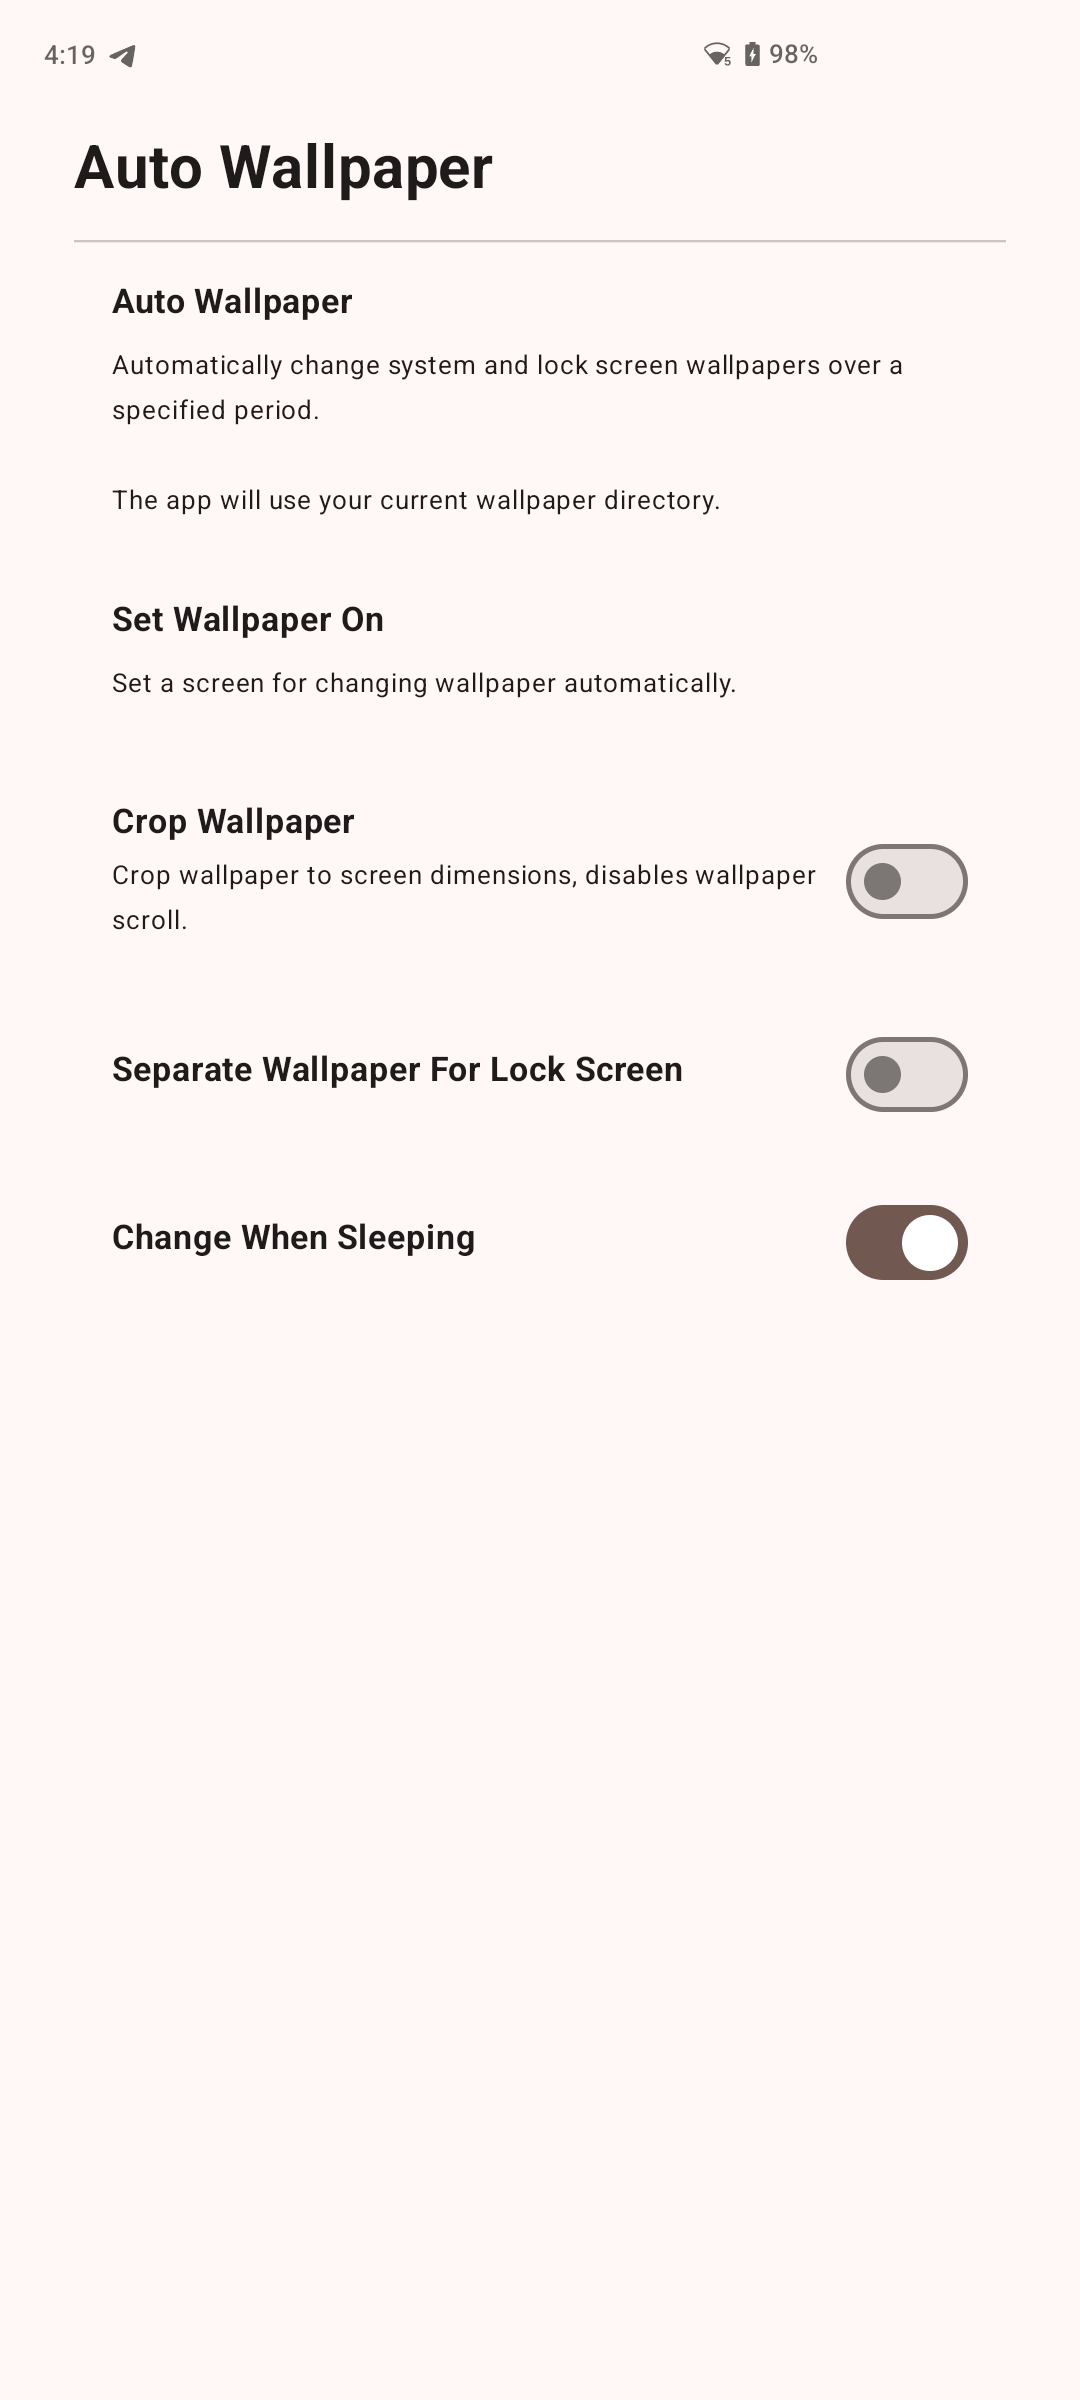
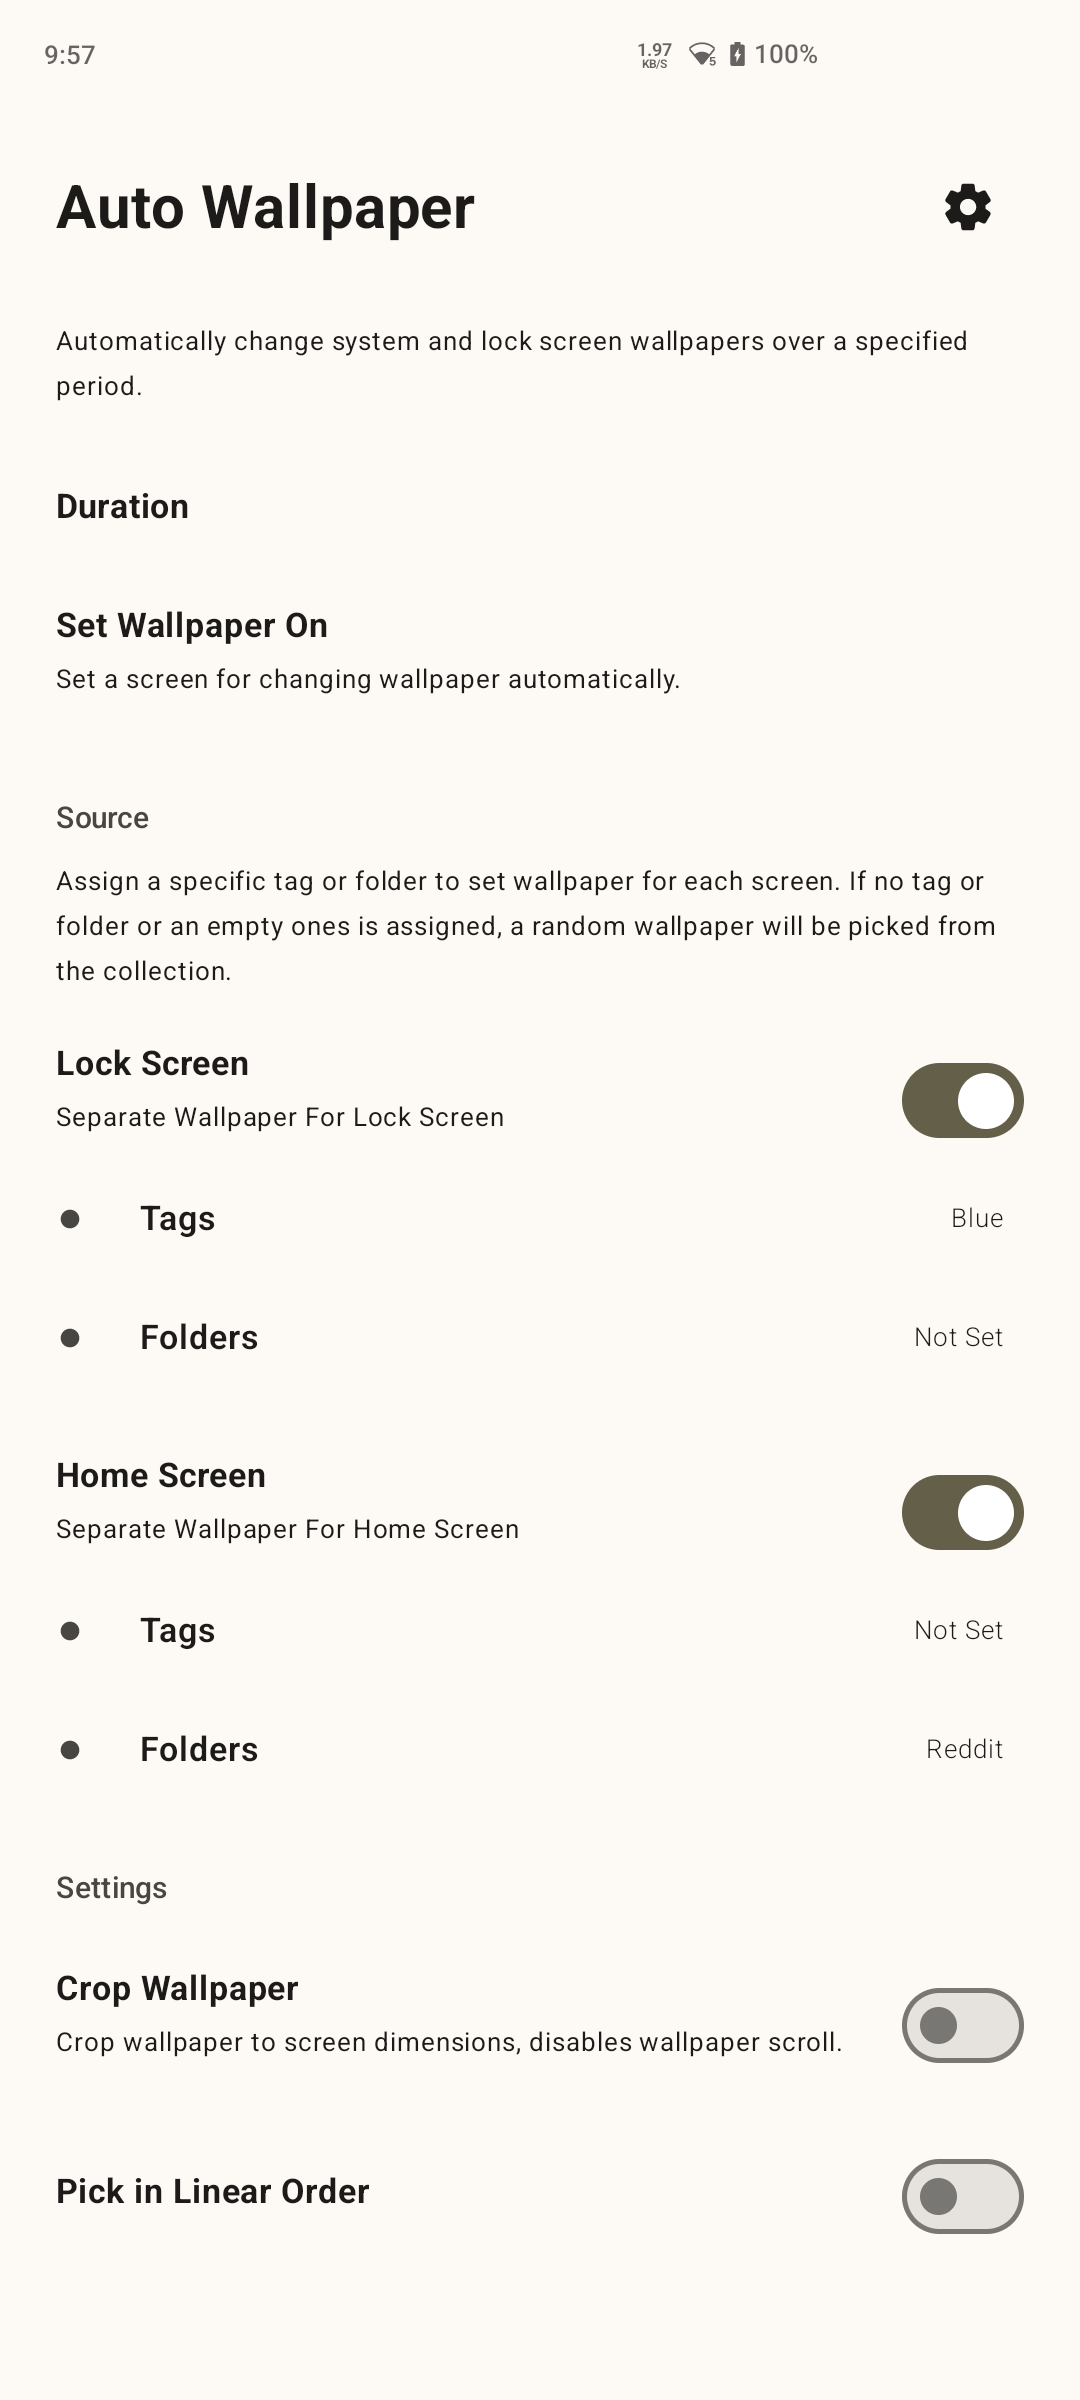
Added back the legacy interface toggle

diff --git a/app/src/main/java/app/simple/peri/compose/screens/AutoWallpaper.kt b/app/src/main/java/app/simple/peri/compose/screens/AutoWallpaper.kt
@@ -181,7 +181,7 @@ fun AutoWallpaper(navController: NavController? = null) {
                                     .weight(1f)
                         )
                         Text(
-                                text = lockTagID.value ?: stringResource(R.string.unknown),
+                                text = lockTagID.value ?: stringResource(R.string.not_set),
                                 color = MaterialTheme.colorScheme.onSurface,
                                 fontWeight = FontWeight.Light,
                                 fontSize = 14.sp,
@@ -215,7 +215,7 @@ fun AutoWallpaper(navController: NavController? = null) {
                                     .weight(1f)
                         )
                         Text(
-                                text = lockFolderName.value ?: stringResource(R.string.unknown),
+                                text = lockFolderName.value ?: stringResource(R.string.not_set),
                                 color = MaterialTheme.colorScheme.onSurface,
                                 fontWeight = FontWeight.Light,
                                 fontSize = 14.sp,
@@ -265,7 +265,7 @@ fun AutoWallpaper(navController: NavController? = null) {
                                     .weight(1f)
                         )
                         Text(
-                                text = homeTagID.value ?: stringResource(R.string.unknown),
+                                text = homeTagID.value ?: stringResource(R.string.not_set),
                                 color = MaterialTheme.colorScheme.onSurface,
                                 fontWeight = FontWeight.Light,
                                 fontSize = 14.sp,
@@ -299,7 +299,7 @@ fun AutoWallpaper(navController: NavController? = null) {
                                     .weight(1f)
                         )
                         Text(
-                                text = homeFolderName.value ?: stringResource(R.string.unknown),
+                                text = homeFolderName.value ?: stringResource(R.string.not_set),
                                 color = MaterialTheme.colorScheme.onSurface,
                                 fontWeight = FontWeight.Light,
                                 fontSize = 14.sp,
@@ -319,6 +319,11 @@ fun AutoWallpaper(navController: NavController? = null) {
                             lockTagID.value = it.name
                             showLockTagDialog.value = false
                             MainComposePreferences.setLockTagId(it.name)
+
+                            lockFolderID.intValue = 0
+                            lockFolderName.value = ""
+                            MainComposePreferences.setLockFolderId(0)
+                            MainComposePreferences.setLockFolderName(null)
                         })
             }
 
@@ -330,6 +335,11 @@ fun AutoWallpaper(navController: NavController? = null) {
                             homeTagID.value = it.name
                             showHomeTagDialog.value = false
                             MainComposePreferences.setHomeTagId(it.name)
+
+                            homeFolderName.value = ""
+                            homeFolderID.intValue = 0
+                            MainComposePreferences.setHomeFolderId(0)
+                            MainComposePreferences.setHomeFolderName(null)
                         })
             }
 
@@ -341,8 +351,11 @@ fun AutoWallpaper(navController: NavController? = null) {
                             lockFolderID.intValue = it.hashcode
                             lockFolderName.value = it.name
                             showLockFolderDialog.value = false
-                            MainComposePreferences.setLockFolderId(it.hashcode.toString())
+                            MainComposePreferences.setLockFolderId(it.hashcode)
                             MainComposePreferences.setLockFolderName(it.name)
+
+                            lockTagID.value = null
+                            MainComposePreferences.setLockTagId(null)
                         })
             }
 
@@ -354,8 +367,11 @@ fun AutoWallpaper(navController: NavController? = null) {
                             homeFolderID.intValue = it.hashcode
                             homeFolderName.value = it.name
                             showHomeFolderDialog.value = false
-                            MainComposePreferences.setHomeFolderId(it.hashcode.toString())
+                            MainComposePreferences.setHomeFolderId(it.hashcode)
                             MainComposePreferences.setHomeFolderName(it.name)
+
+                            homeTagID.value = null
+                            MainComposePreferences.setHomeTagId(null)
                         })
             }
         }

diff --git a/app/src/main/java/app/simple/peri/preferences/MainComposePreferences.kt b/app/src/main/java/app/simple/peri/preferences/MainComposePreferences.kt
@@ -10,11 +10,11 @@ object MainComposePreferences {
     private const val IS_LOCK_SOURCE_SET = "is_lock_source_set"
     private const val IS_HOME_SOURCE_SET = "is_home_source_set"
     private const val LOCK_TAG_ID = "lock_tag_id"
-    private const val LOCK_FOLDER_ID = "lock_folder_id_"
-    private const val LOCK_FOLDER_NAME = "lock_folder_name_"
+    private const val LOCK_FOLDER_ID = "lock_folder_id__"
+    private const val LOCK_FOLDER_NAME = "lock_folder_name__"
     private const val HOME_TAG_ID = "home_tag_id"
-    private const val HOME_FOLDER_ID = "home_folder_id_"
-    private const val HOME_FOLDER_NAME = "home_folder_name_"
+    private const val HOME_FOLDER_ID = "home_folder_id__"
+    private const val HOME_FOLDER_NAME = "home_folder_name__"
 
     // ----------------------------------------------------------------------------------------------------- //
 
@@ -72,7 +72,7 @@ object MainComposePreferences {
         return getSharedPreferences().getString(LOCK_TAG_ID, null)
     }
 
-    fun setLockTagId(value: String) {
+    fun setLockTagId(value: String?) {
         getSharedPreferences().edit().putString(LOCK_TAG_ID, value).apply()
     }
 
@@ -82,8 +82,8 @@ object MainComposePreferences {
         return getSharedPreferences().getInt(LOCK_FOLDER_ID, 0)
     }
 
-    fun setLockFolderId(value: String) {
-        getSharedPreferences().edit().putString(LOCK_FOLDER_ID, value).apply()
+    fun setLockFolderId(value: Int) {
+        getSharedPreferences().edit().putInt(LOCK_FOLDER_ID, value).apply()
     }
 
     // ----------------------------------------------------------------------------------------------------- //
@@ -92,7 +92,7 @@ object MainComposePreferences {
         return getSharedPreferences().getString(LOCK_FOLDER_NAME, null)
     }
 
-    fun setLockFolderName(value: String) {
+    fun setLockFolderName(value: String?) {
         getSharedPreferences().edit().putString(LOCK_FOLDER_NAME, value).apply()
     }
 
@@ -102,7 +102,7 @@ object MainComposePreferences {
         return getSharedPreferences().getString(HOME_TAG_ID, null)
     }
 
-    fun setHomeTagId(value: String) {
+    fun setHomeTagId(value: String?) {
         getSharedPreferences().edit().putString(HOME_TAG_ID, value).apply()
     }
 
@@ -112,8 +112,8 @@ object MainComposePreferences {
         return getSharedPreferences().getInt(HOME_FOLDER_ID, 0)
     }
 
-    fun setHomeFolderId(value: String) {
-        getSharedPreferences().edit().putString(HOME_FOLDER_ID, value).apply()
+    fun setHomeFolderId(value: Int) {
+        getSharedPreferences().edit().putInt(HOME_FOLDER_ID, value).apply()
     }
 
     // ----------------------------------------------------------------------------------------------------- //
@@ -122,7 +122,7 @@ object MainComposePreferences {
         return getSharedPreferences().getString(HOME_FOLDER_NAME, null)
     }
 
-    fun setHomeFolderName(value: String) {
+    fun setHomeFolderName(value: String?) {
         getSharedPreferences().edit().putString(HOME_FOLDER_NAME, value).apply()
     }
 }

diff --git a/app/src/main/java/app/simple/peri/compose/screens/Settings.kt b/app/src/main/java/app/simple/peri/compose/screens/Settings.kt
@@ -5,7 +5,9 @@ import NumberSelectionDialog
 import OtherApps
 import SecondaryHeader
 import SwitchPreference
+import android.content.ComponentName
 import android.content.Intent
+import android.content.pm.PackageManager
 import android.net.Uri
 import androidx.compose.foundation.layout.PaddingValues
 import androidx.compose.foundation.layout.padding
@@ -25,6 +27,8 @@ import androidx.compose.ui.unit.dp
 import androidx.core.view.WindowInsetsCompat
 import androidx.navigation.NavController
 import app.simple.peri.R
+import app.simple.peri.activities.LegacyActivity
+import app.simple.peri.activities.MainComposeActivity
 import app.simple.peri.compose.commons.COMMON_PADDING
 import app.simple.peri.compose.commons.TopHeader
 import app.simple.peri.compose.dialogs.OrderDialog
@@ -152,6 +156,29 @@ fun Settings(navController: NavController? = null) {
                     checked = MainPreferences.isIgnoreSubDirs()
             ) {
                 MainPreferences.setIgnoreSubDirs(it)
+            }
+
+            SwitchPreference(
+                    title = context.getString(R.string.go_back_to_legacy_interface),
+                    description = context.getString(R.string.go_back_to_legacy_interface_summary),
+                    checked = context.packageManager.getComponentEnabledSetting(ComponentName(context, LegacyActivity::class.java))
+                            == PackageManager.COMPONENT_ENABLED_STATE_ENABLED
+            ) {
+                val newState = when {
+                    it -> PackageManager.COMPONENT_ENABLED_STATE_ENABLED
+                    else -> PackageManager.COMPONENT_ENABLED_STATE_DISABLED
+                }
+
+                val composeState = when {
+                    it -> PackageManager.COMPONENT_ENABLED_STATE_DISABLED
+                    else -> PackageManager.COMPONENT_ENABLED_STATE_ENABLED
+                }
+
+                context.packageManager.setComponentEnabledSetting(
+                        ComponentName(context, LegacyActivity::class.java), newState, PackageManager.DONT_KILL_APP)
+
+                context.packageManager.setComponentEnabledSetting(
+                        ComponentName(context, MainComposeActivity::class.java), composeState, PackageManager.DONT_KILL_APP)
             }
         }
         item {
